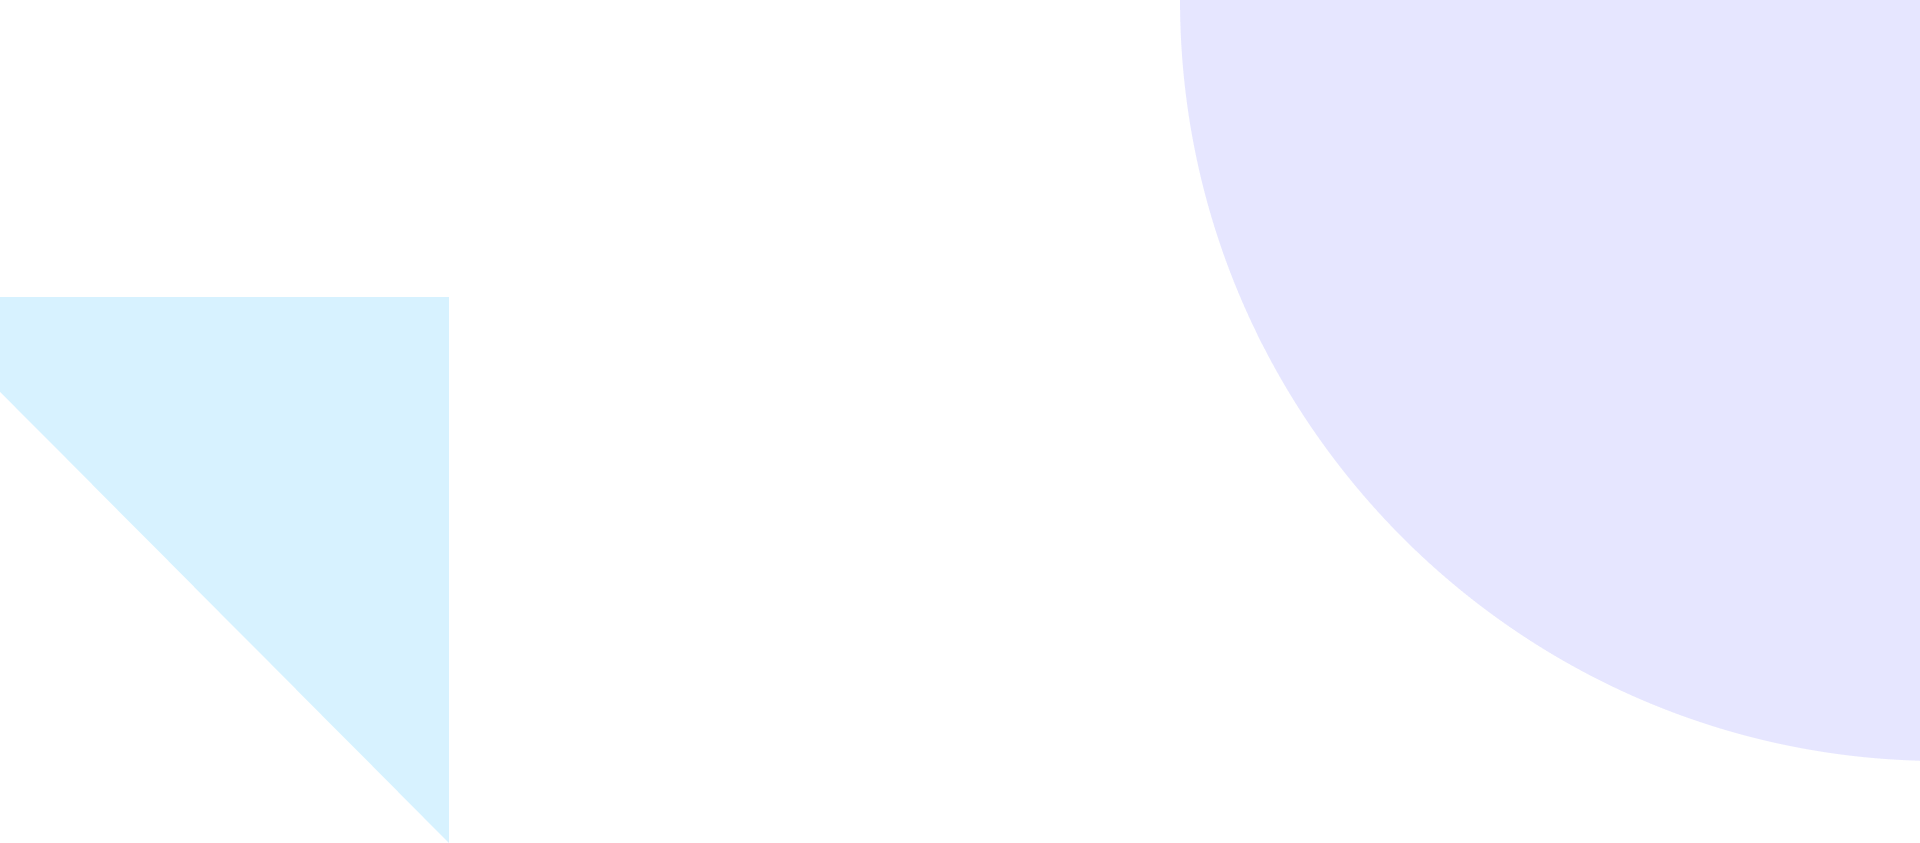
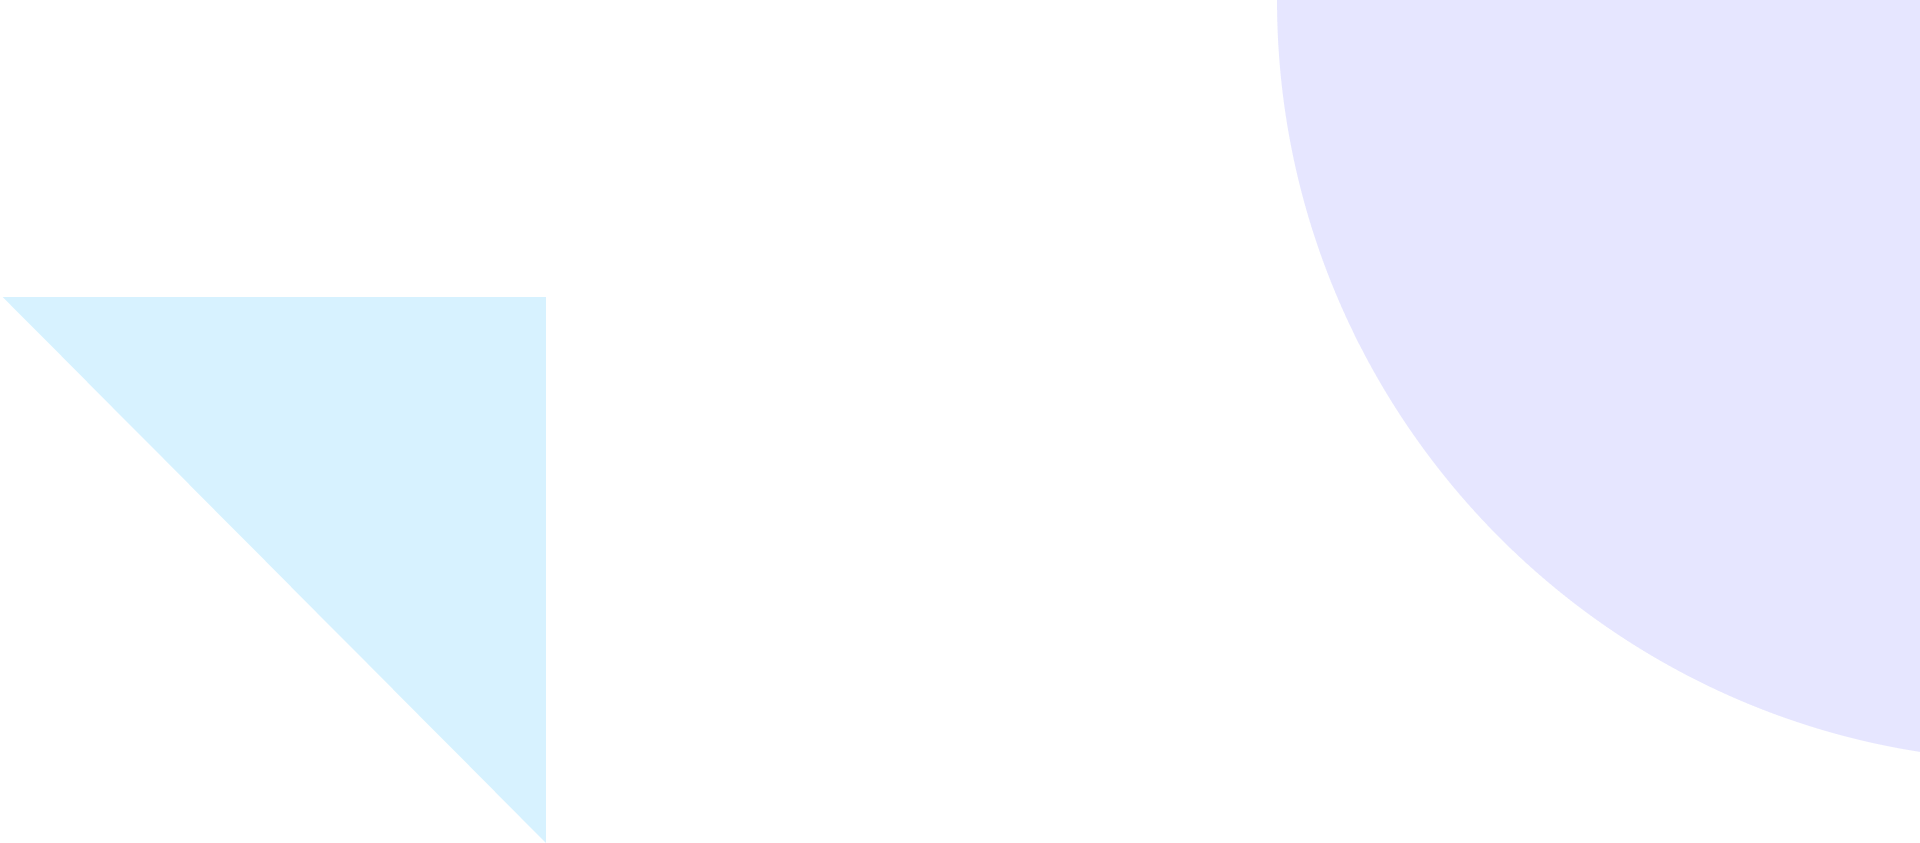
Retina background fix

Changed region(s): [[0.0, 0.3393, 0.2812, 0.987], [0.5938, 0.0, 1.0, 0.9253]]

diff --git a/style.css b/style.css
@@ -141,8 +141,9 @@ img {
 .hero__bg {
   background: url("img/hero/hero-back.png") no-repeat center center;
   padding: 264px 0;
-  height: 100%;
-  background-size: auto 100%;
+  height: fit-content;
+  background-size: 100% 100%;
+  justify-content: center;
 }
 
 .hero {
@@ -256,7 +257,7 @@ img {
 }
 
 .hero__image-block {
-  margin-top: -450px;
+  margin-top: -300px;
   width: 100%;
   display: flex;
   justify-content: center;
@@ -276,6 +277,7 @@ img {
   background: url("img/what-you-get/bg.png") no-repeat center center;
   height: fit-content;
   background-size: contain;
+  justify-content: center;
 }
 
 .what-you-get__subtitle {
